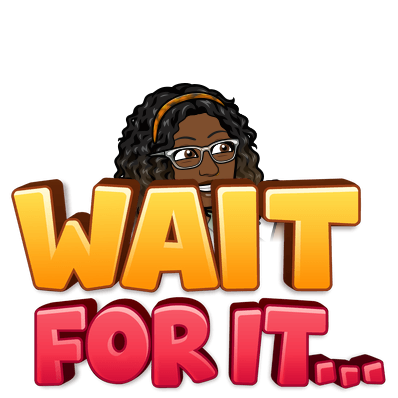
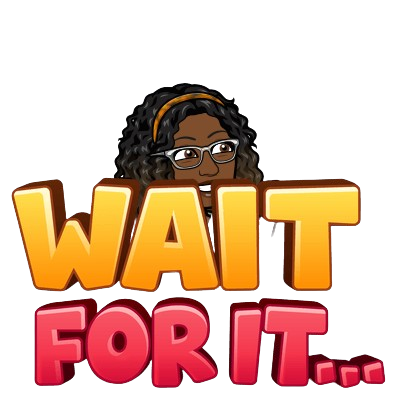
Upload wait Transparent image and fix a bug

diff --git a/src/screens/GiveFundScreens/GiveScreen.js b/src/screens/GiveFundScreens/GiveScreen.js
@@ -74,7 +74,7 @@ export default function GiveScreen({ route, navigation }) {
 
   //UPDATE CURRENT TOTAL DONATIONS ON SUPABASE
   async function updateCurrent() {
-    if(paymentId && publicId && selectedButtons){
+    if(paymentId && (publicId !== null) && selectedButtons){
       const { data, error } = await supabase
         .from('nonprofits')
         .update({ "currentAmount": nonprofits[0].currentAmount + parseInt(donation) })
